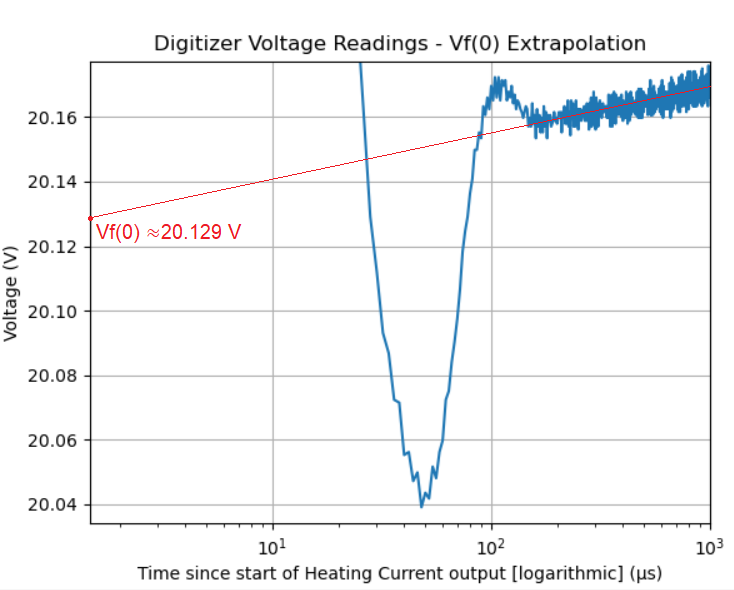
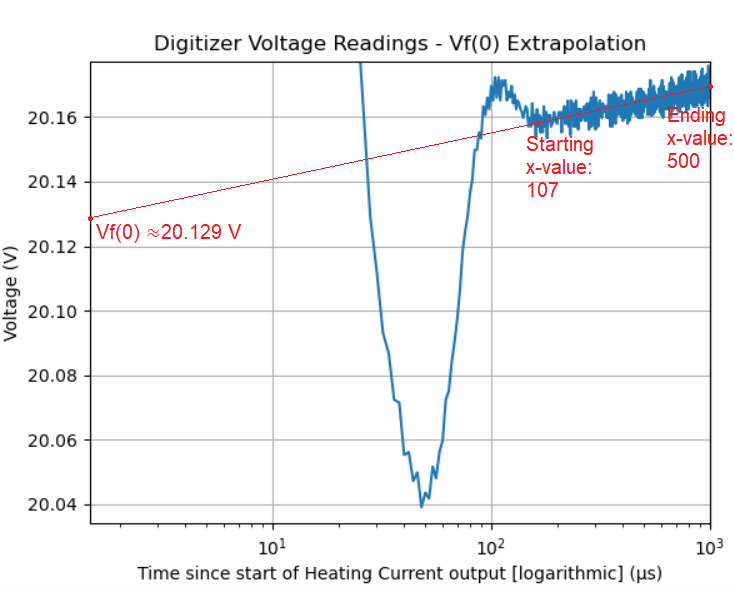
Updates to Tj Measurement documentation
Updated screenshot and markdown file to reflect changes from the previous push

Changed region(s): [[0.8992, 0.1831, 1.0, 0.3051], [0.7193, 0.2136, 0.8093, 0.3356]]

diff --git a/application_specific_examples/making_tj_measurements/TjMeasurement.py b/application_specific_examples/making_tj_measurements/TjMeasurement.py
@@ -204,7 +204,7 @@ try:
     Vf0 = calculate_Vf0(first_linear_sample, last_linear_sample, digitizerData)
     junction_temperature = temperature_one + ((Vf0 - voltage_one) / k_factor)
 
-    log_and_print_to_console('\nExtrapolated Vf0 value: {} V'.format(round(Vf0, 4)))
+    log_and_print_to_console('\nExtrapolated Vf(0) value: {} V'.format(round(Vf0, 4)))
     log_and_print_to_console('Calculated junction temperature (Tj): {} °C\n'.format(round(junction_temperature, 4)))
 
     # disconnect from SpikeSafe                      

diff --git a/application_specific_examples/making_tj_measurements/README.md b/application_specific_examples/making_tj_measurements/README.md
@@ -59,9 +59,9 @@ Once Vf(0) is obtained, we have all of the values necessary to calculate Tj. Jun
 
 ### SpikeSafe Current Output Settings
 - **Pulse Mode:** Bias Current, then Continuous Dynamic Bias Current
-- **Bias Current (Measurement Current):** 33mA
-- **Set Current (Heating Current):** 3.5A
-- **Compliance Voltage:** 40V
+- **Bias Current (Measurement Current):** 33mA (may modify according to DUT characteristics)
+- **Set Current (Heating Current):** 3.5A (may modify according to DUT characteristics)
+- **Compliance Voltage:** 40V (may modify according to DUT characteristics)
 - **On Time:** 1s
 - **Off Time:** 1ms
 - **Ramp Rate:** Fast. Voltage will ramp as fast as 1000V/sec. Current will ramp as fast as 50A/sec.
@@ -93,11 +93,11 @@ Once Vf(0) is obtained, we have all of the values necessary to calculate Tj. Jun
 - For best results, it is recommended to perform [Pulse Tuning](../pulse_tuning) prior to performing this test. It is better to have a fast rise time with some overshoot than a slower rise time.
 
 ## Expected Results
-Message boxes will appear at various portions of the test to wait for user input. Perform the specified test operations when these message boxes appear, and then press "OK" to continue with the test procedure. Once step three is reached, a graph will appear similar to below:
+Messages will appear in the console at various portions of the test and will prompt user input. Perform the specified test operations when these messages appear, and then press "Enter" to continue with the test procedure. Once step three is reached, a graph will appear similar to below:
 
 ![](vf0_extrapolation_graph.png)
 
-From this graph, the user will have to estimate the Vf(0) value by extrapolating the straight line towards the y-axis. After determining the Vf(0) value, the junction temperature can then be calculated using the following equation:
+From this graph, the user will have to determine the x-values at which the graph appears most linear. After entering the starting x-value and ending x-value into the console, the Vf(0) value will be calculated by extrapolating a straight line towards the y-axis. After determining the Vf(0) value, the junction temperature is then calculated using the following equation:
 
 ![](tj_equation.png)
 

diff --git a/getting_started/README.md b/getting_started/README.md
@@ -1,6 +1,6 @@
 # Getting Started
 
-These sequences are primarily intended for first-time users of Vektrex products. They contain steps to perform the basic tasks that are necessary to run the sequences within SpikeSafePythonExamples/[Run SpikeSafe Operating Modes](../run_spikesafe_operating_modes).
+These sequences are primarily intended for first-time users of Vektrex products. They contain steps to perform the basic tasks that are necessary to run the sequences within SpikeSafePythonSamples/[Run SpikeSafe Operating Modes](../run_spikesafe_operating_modes).
 
 ## Directory
 For first-time users, Vektrex recommends running the sequences in the order shown below:
